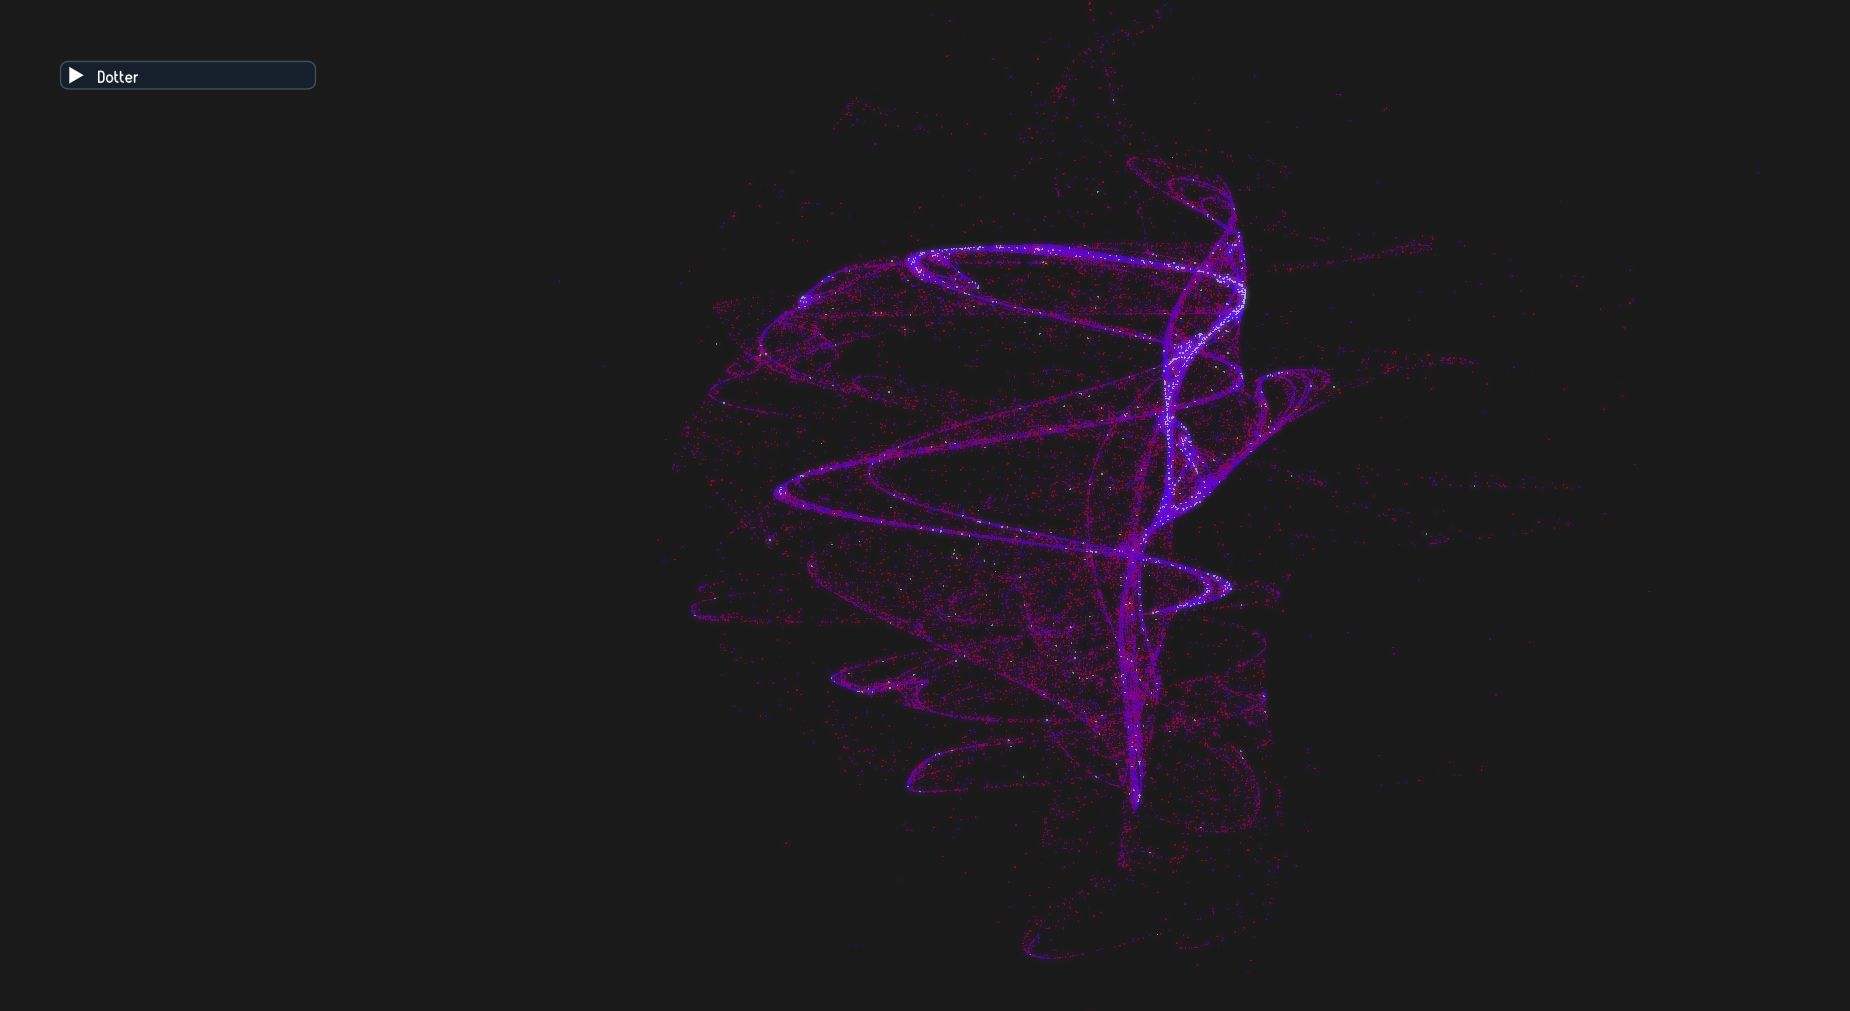
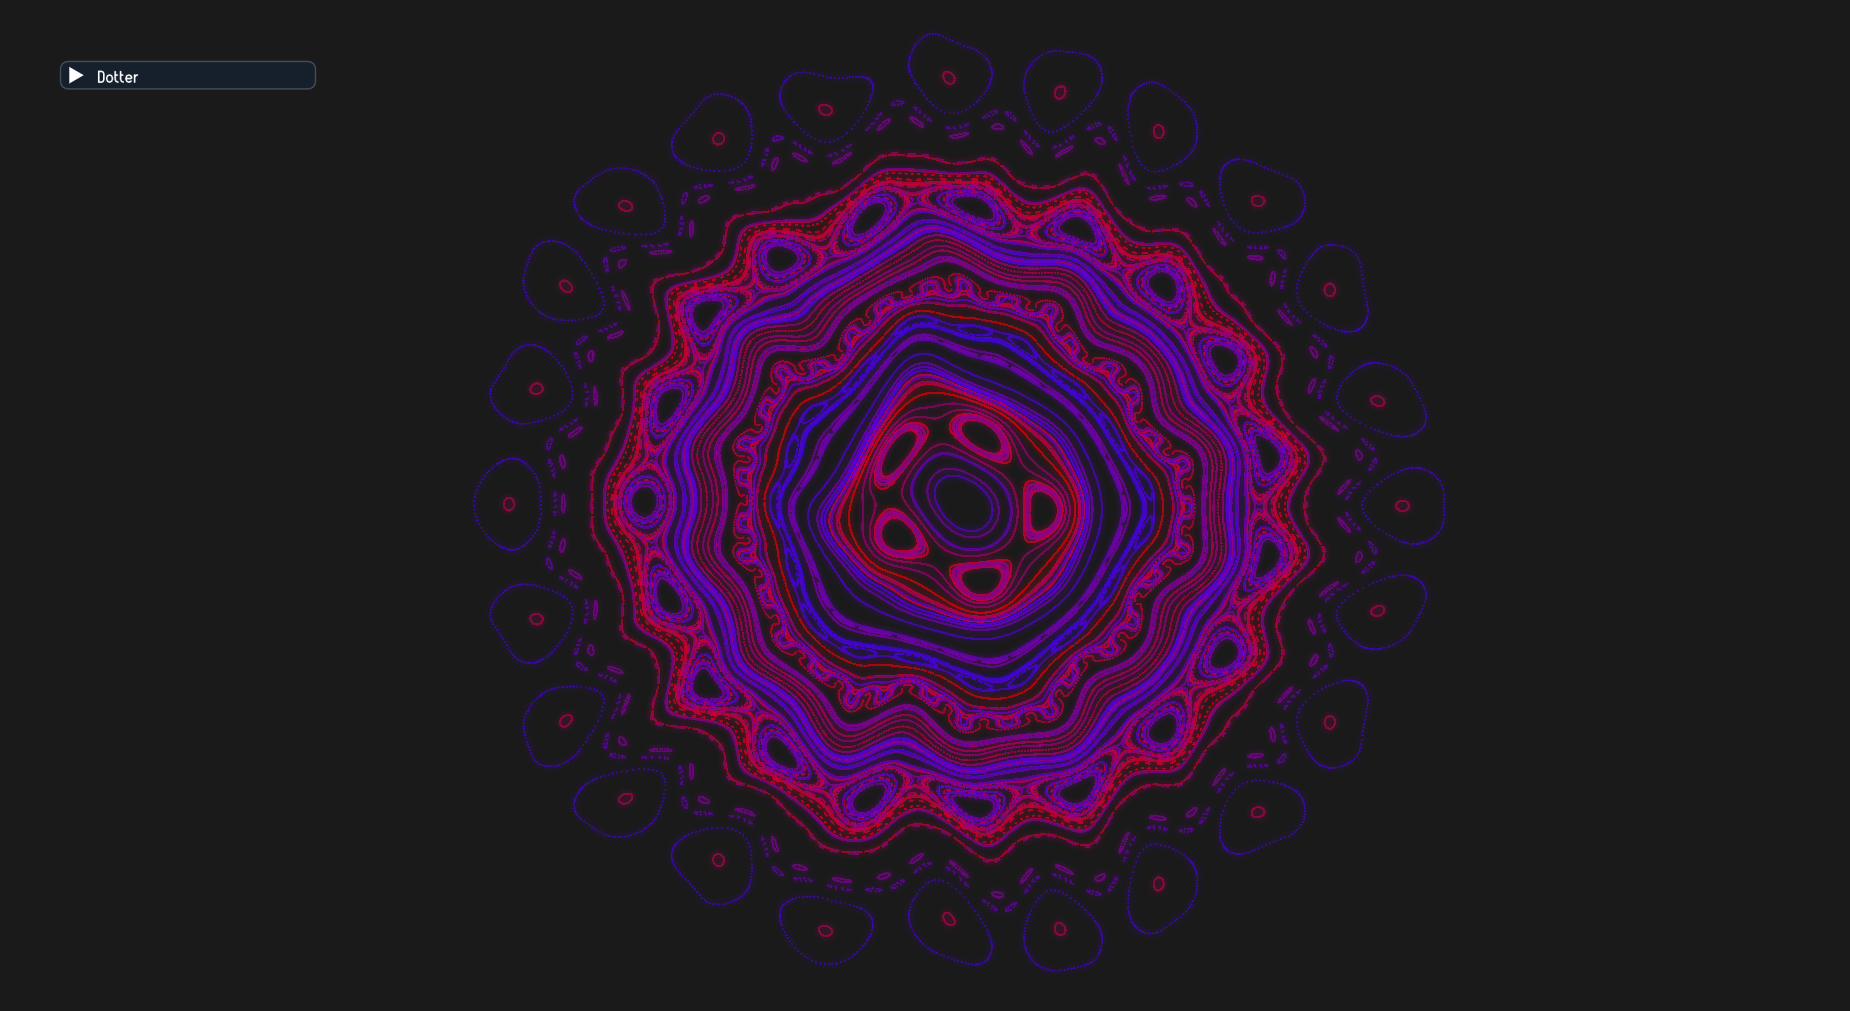
Range parameter

Changed region(s): [[0.3081, 0.1227, 0.7395, 0.8892], [0.5546, 0.9199, 0.5854, 0.9505], [0.4622, 0.092, 0.493, 0.1227]]

diff --git a/src/Interface.h b/src/Interface.h
@@ -733,11 +733,14 @@ namespace Interface {
                 DragFloat("d", &params.d, 0.002, -3.0, 3.0, "%.3f");
             }
 
+            ImGui::SetNextItemWidth(Scale(60.0));
+            DragFloat("Range", &params.range, 0.02, 0.1, 10.0, "%.1f");
+
             if (ImGui::Button("Reset parameters", buttonDouble)) {
-                if (attractor == 0) params.a = 0.266, params.b = 1.0;
-                if (attractor == 1) params.a = 0.653, params.b = 0.734;
-                if (attractor == 2) params.a = 1.7, params.b = 1.8, params.y = 0.9, params.d = 0.4;
-                if (attractor == 3) params.a = -0.966, params.b = 2.879, params.y = 0.765, params.d = 0.744;
+                if (attractor == 0) params.a = 0.266, params.b = 1.0, params.range = 3.0;
+                if (attractor == 1) params.a = 0.653, params.b = 0.734, params.range = 1.0;
+                if (attractor == 2) params.a = 1.7, params.b = 1.8, params.y = 0.9, params.d = 0.4, params.range = 1.0;
+                if (attractor == 3) params.a = -0.966, params.b = 2.879, params.y = 0.765, params.d = 0.744, params.range = 1.0;
             }
 
             if (ImGui::Button("Restart", buttonDouble)) start();

diff --git a/src/Simulation.h b/src/Simulation.h
@@ -13,6 +13,8 @@ namespace Simulation {
         float y = 1.0;
         float d = 1.0;
 
+        float range = 3.0;
+
         void clamp() {
  
         }
@@ -66,9 +68,12 @@ namespace Simulation {
 
         Rand::Seed(1);
 
+        float rangex = params->range;
+        float rangey = params->range;
+
         for (uint j = 0; j < repeat; j++) {
-            positions[j*count].x = Rand::Float()*Rand::Sign();
-            positions[j*count].y = Rand::Float()*Rand::Sign();
+            positions[j*count].x = Rand::Range(-rangex, rangex);
+            positions[j*count].y = Rand::Range(-rangey, rangey);
 
             for (int k = 1; k < count; k++) {
                 int i = k+j*count;
